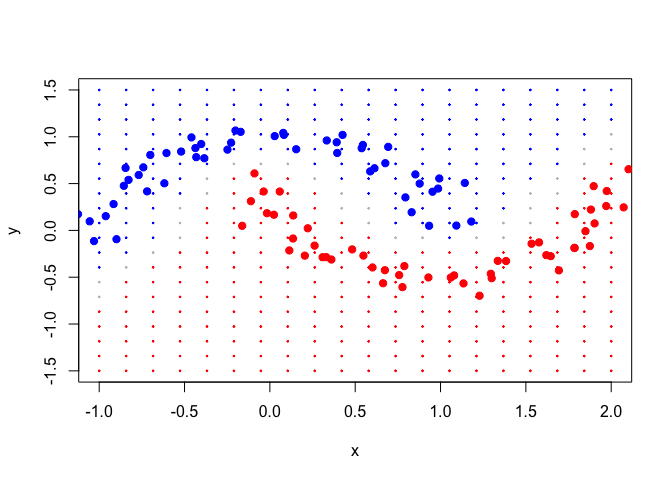
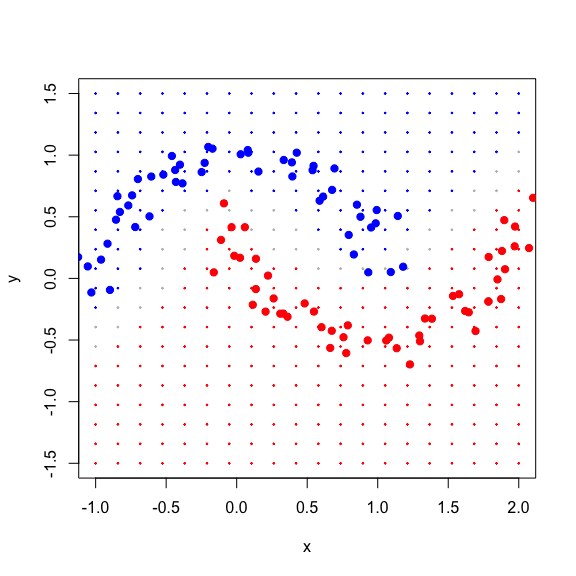
++

Changed region(s): [[0.0625, 0.125, 0.9688, 0.9062], [0.5, 0.9375, 0.5312, 0.9688], [0.0, 0.4688, 0.0312, 0.5]]

diff --git a/README.html b/README.html
@@ -1,0 +1,330 @@
+<!DOCTYPE html>
+<html xmlns="http://www.w3.org/1999/xhtml" lang="en" xml:lang="en"><head>
+
+<meta charset="utf-8">
+<meta name="generator" content="quarto-1.2.269">
+
+<meta name="viewport" content="width=device-width, initial-scale=1.0, user-scalable=yes">
+
+
+<title>readme</title>
+<style>
+code{white-space: pre-wrap;}
+span.smallcaps{font-variant: small-caps;}
+div.columns{display: flex; gap: min(4vw, 1.5em);}
+div.column{flex: auto; overflow-x: auto;}
+div.hanging-indent{margin-left: 1.5em; text-indent: -1.5em;}
+ul.task-list{list-style: none;}
+ul.task-list li input[type="checkbox"] {
+  width: 0.8em;
+  margin: 0 0.8em 0.2em -1.6em;
+  vertical-align: middle;
+}
+pre > code.sourceCode { white-space: pre; position: relative; }
+pre > code.sourceCode > span { display: inline-block; line-height: 1.25; }
+pre > code.sourceCode > span:empty { height: 1.2em; }
+.sourceCode { overflow: visible; }
+code.sourceCode > span { color: inherit; text-decoration: inherit; }
+div.sourceCode { margin: 1em 0; }
+pre.sourceCode { margin: 0; }
+@media screen {
+div.sourceCode { overflow: auto; }
+}
+@media print {
+pre > code.sourceCode { white-space: pre-wrap; }
+pre > code.sourceCode > span { text-indent: -5em; padding-left: 5em; }
+}
+pre.numberSource code
+  { counter-reset: source-line 0; }
+pre.numberSource code > span
+  { position: relative; left: -4em; counter-increment: source-line; }
+pre.numberSource code > span > a:first-child::before
+  { content: counter(source-line);
+    position: relative; left: -1em; text-align: right; vertical-align: baseline;
+    border: none; display: inline-block;
+    -webkit-touch-callout: none; -webkit-user-select: none;
+    -khtml-user-select: none; -moz-user-select: none;
+    -ms-user-select: none; user-select: none;
+    padding: 0 4px; width: 4em;
+    color: #aaaaaa;
+  }
+pre.numberSource { margin-left: 3em; border-left: 1px solid #aaaaaa;  padding-left: 4px; }
+div.sourceCode
+  {   }
+@media screen {
+pre > code.sourceCode > span > a:first-child::before { text-decoration: underline; }
+}
+code span.al { color: #ff0000; font-weight: bold; } /* Alert */
+code span.an { color: #60a0b0; font-weight: bold; font-style: italic; } /* Annotation */
+code span.at { color: #7d9029; } /* Attribute */
+code span.bn { color: #40a070; } /* BaseN */
+code span.bu { color: #008000; } /* BuiltIn */
+code span.cf { color: #007020; font-weight: bold; } /* ControlFlow */
+code span.ch { color: #4070a0; } /* Char */
+code span.cn { color: #880000; } /* Constant */
+code span.co { color: #60a0b0; font-style: italic; } /* Comment */
+code span.cv { color: #60a0b0; font-weight: bold; font-style: italic; } /* CommentVar */
+code span.do { color: #ba2121; font-style: italic; } /* Documentation */
+code span.dt { color: #902000; } /* DataType */
+code span.dv { color: #40a070; } /* DecVal */
+code span.er { color: #ff0000; font-weight: bold; } /* Error */
+code span.ex { } /* Extension */
+code span.fl { color: #40a070; } /* Float */
+code span.fu { color: #06287e; } /* Function */
+code span.im { color: #008000; font-weight: bold; } /* Import */
+code span.in { color: #60a0b0; font-weight: bold; font-style: italic; } /* Information */
+code span.kw { color: #007020; font-weight: bold; } /* Keyword */
+code span.op { color: #666666; } /* Operator */
+code span.ot { color: #007020; } /* Other */
+code span.pp { color: #bc7a00; } /* Preprocessor */
+code span.sc { color: #4070a0; } /* SpecialChar */
+code span.ss { color: #bb6688; } /* SpecialString */
+code span.st { color: #4070a0; } /* String */
+code span.va { color: #19177c; } /* Variable */
+code span.vs { color: #4070a0; } /* VerbatimString */
+code span.wa { color: #60a0b0; font-weight: bold; font-style: italic; } /* Warning */
+</style>
+
+
+<script src="README_files/libs/clipboard/clipboard.min.js"></script>
+<script src="README_files/libs/quarto-html/quarto.js"></script>
+<script src="README_files/libs/quarto-html/popper.min.js"></script>
+<script src="README_files/libs/quarto-html/tippy.umd.min.js"></script>
+<script src="README_files/libs/quarto-html/anchor.min.js"></script>
+<link href="README_files/libs/quarto-html/tippy.css" rel="stylesheet">
+<link href="README_files/libs/quarto-html/quarto-syntax-highlighting.css" rel="stylesheet" id="quarto-text-highlighting-styles">
+<script src="README_files/libs/bootstrap/bootstrap.min.js"></script>
+<link href="README_files/libs/bootstrap/bootstrap-icons.css" rel="stylesheet">
+<link href="README_files/libs/bootstrap/bootstrap.min.css" rel="stylesheet" id="quarto-bootstrap" data-mode="light">
+
+
+</head>
+
+<body class="fullcontent">
+
+<div id="quarto-content" class="page-columns page-rows-contents page-layout-article">
+
+<main class="content" id="quarto-document-content">
+
+
+
+<!-- README.md is generated from README.Rmd. Please edit that file -->
+<section id="micrograd" class="level1">
+<h1>micrograd</h1>
+<!-- badges: start -->
+<!-- badges: end -->
+<p>micrograd is small library for scalar values automatic differentiation in R. It’s a port of the <a href="https://github.com/karpathy/micrograd">micrograd</a> project by Andrej Karpathy with modifications to take advantage of R’s functional programming capabilities. Taking ideas from <a href="https://jax.readthedocs.io"><code>jax</code></a>. such as the usage of <a href="https://jax.readthedocs.io/en/latest/_autosummary/jax.value_and_grad.html"><code>value_and_grad</code></a>. It’s also heavily inspired by modifications from <a href="https://gist.github.com/cghawthorne/68af5fd4a9110076e5b23f056b9653dd">functional-micrograd</a>.</p>
+<p>micrograd is only useful for educational purposes. The code is meant to be readable and simple, not efficient. It’s not meant to be used in production code.</p>
+<section id="installation" class="level2">
+<h2 class="anchored" data-anchor-id="installation">Installation</h2>
+<p>You can install the development version of micrograd like so:</p>
+<div class="sourceCode" id="cb1"><pre class="sourceCode r code-with-copy"><code class="sourceCode r"><span id="cb1-1"><a href="#cb1-1" aria-hidden="true" tabindex="-1"></a>remotes<span class="sc">::</span><span class="fu">install_github</span>(<span class="st">"dfalbel/micrograd"</span>)</span></code><button title="Copy to Clipboard" class="code-copy-button"><i class="bi"></i></button></pre></div>
+</section>
+<section id="example" class="level2">
+<h2 class="anchored" data-anchor-id="example">Example</h2>
+<p>As an example usage of micrograd let’s train a simple multi layer perceptron on the moon dataset. You can see the data points below:</p>
+<div class="sourceCode" id="cb2"><pre class="sourceCode r code-with-copy"><code class="sourceCode r"><span id="cb2-1"><a href="#cb2-1" aria-hidden="true" tabindex="-1"></a><span class="fu">library</span>(micrograd)</span>
+<span id="cb2-2"><a href="#cb2-2" aria-hidden="true" tabindex="-1"></a><span class="fu">library</span>(purrr)</span>
+<span id="cb2-3"><a href="#cb2-3" aria-hidden="true" tabindex="-1"></a><span class="fu">library</span>(dotty) <span class="co"># for .[] syntax</span></span>
+<span id="cb2-4"><a href="#cb2-4" aria-hidden="true" tabindex="-1"></a></span>
+<span id="cb2-5"><a href="#cb2-5" aria-hidden="true" tabindex="-1"></a><span class="fu">set.seed</span>(<span class="dv">18</span>)</span>
+<span id="cb2-6"><a href="#cb2-6" aria-hidden="true" tabindex="-1"></a>.[X, y] <span class="ot">&lt;-</span> <span class="fu">moon</span>(<span class="at">n =</span> <span class="dv">100</span>, <span class="at">noise =</span> <span class="fl">0.1</span>)</span>
+<span id="cb2-7"><a href="#cb2-7" aria-hidden="true" tabindex="-1"></a><span class="fu">plot</span>(X, <span class="at">col =</span> <span class="fu">ifelse</span>(y <span class="sc">==</span> <span class="sc">-</span><span class="dv">1</span>, <span class="st">"blue"</span>, <span class="st">"red"</span>), <span class="at">pch =</span> <span class="dv">19</span>)</span></code><button title="Copy to Clipboard" class="code-copy-button"><i class="bi"></i></button></pre></div>
+<p><img src="man/figures/README-moon-dataset-1.png" width="100px" height="100px"></p>
+<p>This dataset is particularly challenging because the two classes are not linearly separable, so a linear regression model wouldn’t be able to achieve good results. Let’s train a simple multi layer perceptron to classify the data points.</p>
+<div class="sourceCode" id="cb3"><pre class="sourceCode r code-with-copy"><code class="sourceCode r"><span id="cb3-1"><a href="#cb3-1" aria-hidden="true" tabindex="-1"></a>.[params, model] <span class="ot">&lt;-</span> <span class="fu">mlp</span>(<span class="dv">2</span>, <span class="fu">c</span>(<span class="dv">16</span>, <span class="dv">16</span>, <span class="dv">1</span>))</span>
+<span id="cb3-2"><a href="#cb3-2" aria-hidden="true" tabindex="-1"></a></span>
+<span id="cb3-3"><a href="#cb3-3" aria-hidden="true" tabindex="-1"></a>loss <span class="ot">&lt;-</span> <span class="cf">function</span>(params) {</span>
+<span id="cb3-4"><a href="#cb3-4" aria-hidden="true" tabindex="-1"></a>  loss <span class="ot">&lt;-</span> <span class="fu">Value</span>(<span class="dv">0</span>)</span>
+<span id="cb3-5"><a href="#cb3-5" aria-hidden="true" tabindex="-1"></a>  <span class="cf">for</span> (i <span class="cf">in</span> <span class="fu">seq_len</span>(<span class="fu">nrow</span>(X))) {</span>
+<span id="cb3-6"><a href="#cb3-6" aria-hidden="true" tabindex="-1"></a>    xi <span class="ot">&lt;-</span> <span class="fu">lapply</span>(X[i,], Value)</span>
+<span id="cb3-7"><a href="#cb3-7" aria-hidden="true" tabindex="-1"></a>    yi <span class="ot">&lt;-</span> <span class="fu">Value</span>(y[i])</span>
+<span id="cb3-8"><a href="#cb3-8" aria-hidden="true" tabindex="-1"></a></span>
+<span id="cb3-9"><a href="#cb3-9" aria-hidden="true" tabindex="-1"></a>    yhati <span class="ot">&lt;-</span> <span class="fu">model</span>(xi, params)[[<span class="dv">1</span>]]</span>
+<span id="cb3-10"><a href="#cb3-10" aria-hidden="true" tabindex="-1"></a></span>
+<span id="cb3-11"><a href="#cb3-11" aria-hidden="true" tabindex="-1"></a>    <span class="co"># svm "max-margin" loss</span></span>
+<span id="cb3-12"><a href="#cb3-12" aria-hidden="true" tabindex="-1"></a>    loss <span class="ot">&lt;-</span> loss <span class="sc">+</span> <span class="fu">relu</span>(<span class="fu">Value</span>(<span class="dv">1</span>) <span class="sc">+</span> (<span class="fu">Value</span>(<span class="sc">-</span><span class="dv">1</span>) <span class="sc">*</span> yi <span class="sc">*</span> yhati))</span>
+<span id="cb3-13"><a href="#cb3-13" aria-hidden="true" tabindex="-1"></a>  }</span>
+<span id="cb3-14"><a href="#cb3-14" aria-hidden="true" tabindex="-1"></a></span>
+<span id="cb3-15"><a href="#cb3-15" aria-hidden="true" tabindex="-1"></a>  loss <span class="ot">&lt;-</span> loss <span class="sc">*</span> <span class="fu">Value</span>(<span class="dv">1</span><span class="sc">/</span><span class="dv">100</span>)</span>
+<span id="cb3-16"><a href="#cb3-16" aria-hidden="true" tabindex="-1"></a></span>
+<span id="cb3-17"><a href="#cb3-17" aria-hidden="true" tabindex="-1"></a>  alpha <span class="ot">&lt;-</span> <span class="fu">Value</span>(<span class="fl">1e-4</span>)</span>
+<span id="cb3-18"><a href="#cb3-18" aria-hidden="true" tabindex="-1"></a>  loss <span class="ot">&lt;-</span> loss <span class="sc">+</span> alpha <span class="sc">*</span> <span class="fu">reduce</span>(<span class="fu">map</span>(<span class="fu">unlist</span>(params), \(p) p<span class="sc">^</span><span class="dv">2</span>), <span class="st">`</span><span class="at">+</span><span class="st">`</span>)</span>
+<span id="cb3-19"><a href="#cb3-19" aria-hidden="true" tabindex="-1"></a>  loss</span>
+<span id="cb3-20"><a href="#cb3-20" aria-hidden="true" tabindex="-1"></a>}</span>
+<span id="cb3-21"><a href="#cb3-21" aria-hidden="true" tabindex="-1"></a></span>
+<span id="cb3-22"><a href="#cb3-22" aria-hidden="true" tabindex="-1"></a>apply_grads <span class="ot">&lt;-</span> <span class="cf">function</span>(params, grads, <span class="at">lr =</span> <span class="fl">0.01</span>) {</span>
+<span id="cb3-23"><a href="#cb3-23" aria-hidden="true" tabindex="-1"></a>  purrr<span class="sc">::</span><span class="fu">map2</span>(params, grads, <span class="cf">function</span>(p, g) {</span>
+<span id="cb3-24"><a href="#cb3-24" aria-hidden="true" tabindex="-1"></a>    <span class="cf">if</span> (<span class="sc">!</span><span class="fu">is.list</span>(p) <span class="sc">&amp;&amp;</span> <span class="sc">!</span><span class="fu">is.list</span>(g)) {</span>
+<span id="cb3-25"><a href="#cb3-25" aria-hidden="true" tabindex="-1"></a>      <span class="fu">Value</span>(p<span class="sc">@</span>data <span class="sc">-</span> lr <span class="sc">*</span> g)</span>
+<span id="cb3-26"><a href="#cb3-26" aria-hidden="true" tabindex="-1"></a>    } <span class="cf">else</span> {</span>
+<span id="cb3-27"><a href="#cb3-27" aria-hidden="true" tabindex="-1"></a>      <span class="fu">apply_grads</span>(p, g, lr)</span>
+<span id="cb3-28"><a href="#cb3-28" aria-hidden="true" tabindex="-1"></a>    }</span>
+<span id="cb3-29"><a href="#cb3-29" aria-hidden="true" tabindex="-1"></a>  })</span>
+<span id="cb3-30"><a href="#cb3-30" aria-hidden="true" tabindex="-1"></a>}</span>
+<span id="cb3-31"><a href="#cb3-31" aria-hidden="true" tabindex="-1"></a></span>
+<span id="cb3-32"><a href="#cb3-32" aria-hidden="true" tabindex="-1"></a>n_iter <span class="ot">&lt;-</span> <span class="dv">50</span></span>
+<span id="cb3-33"><a href="#cb3-33" aria-hidden="true" tabindex="-1"></a><span class="cf">for</span> (iter <span class="cf">in</span> <span class="fu">seq_len</span>(n_iter)) {</span>
+<span id="cb3-34"><a href="#cb3-34" aria-hidden="true" tabindex="-1"></a>  .[value, .[grads]] <span class="ot">&lt;-</span> <span class="fu">value_and_grad</span>(loss)(params)</span>
+<span id="cb3-35"><a href="#cb3-35" aria-hidden="true" tabindex="-1"></a></span>
+<span id="cb3-36"><a href="#cb3-36" aria-hidden="true" tabindex="-1"></a>  lr <span class="ot">&lt;-</span> <span class="fl">1.0</span> <span class="sc">-</span> <span class="fl">0.9</span><span class="sc">*</span>iter<span class="sc">/</span>n_iter</span>
+<span id="cb3-37"><a href="#cb3-37" aria-hidden="true" tabindex="-1"></a></span>
+<span id="cb3-38"><a href="#cb3-38" aria-hidden="true" tabindex="-1"></a>  params <span class="ot">&lt;-</span> <span class="fu">apply_grads</span>(params, grads, lr)</span>
+<span id="cb3-39"><a href="#cb3-39" aria-hidden="true" tabindex="-1"></a>  <span class="cf">if</span> (iter <span class="sc">%%</span> <span class="dv">10</span> <span class="sc">==</span> <span class="dv">0</span>) <span class="fu">cat</span>(<span class="st">"iter:"</span>, iter, <span class="st">"loss:"</span>, value, <span class="st">"</span><span class="sc">\n</span><span class="st">"</span>)</span>
+<span id="cb3-40"><a href="#cb3-40" aria-hidden="true" tabindex="-1"></a>}</span></code><button title="Copy to Clipboard" class="code-copy-button"><i class="bi"></i></button></pre></div>
+<p>We can then visualize the decision boundary of the model using something like:</p>
+<div class="sourceCode" id="cb4"><pre class="sourceCode r code-with-copy"><code class="sourceCode r"><span id="cb4-1"><a href="#cb4-1" aria-hidden="true" tabindex="-1"></a>grid <span class="ot">&lt;-</span> <span class="fu">expand.grid</span>(<span class="at">x =</span> <span class="fu">seq</span>(<span class="sc">-</span><span class="dv">1</span>, <span class="dv">2</span>, <span class="at">length.out=</span><span class="dv">20</span>), <span class="at">y =</span> <span class="fu">seq</span>(<span class="sc">-</span><span class="fl">1.5</span>, <span class="fl">1.5</span>, <span class="at">length.out=</span><span class="dv">20</span>))</span>
+<span id="cb4-2"><a href="#cb4-2" aria-hidden="true" tabindex="-1"></a>scores <span class="ot">&lt;-</span> grid <span class="sc">|&gt;</span> </span>
+<span id="cb4-3"><a href="#cb4-3" aria-hidden="true" tabindex="-1"></a>  <span class="fu">pmap_dbl</span>(\(x, y) <span class="fu">model</span>(<span class="fu">list</span>(<span class="fu">Value</span>(x), <span class="fu">Value</span>(y)), params)[[<span class="dv">1</span>]]<span class="sc">@</span>data)</span>
+<span id="cb4-4"><a href="#cb4-4" aria-hidden="true" tabindex="-1"></a></span>
+<span id="cb4-5"><a href="#cb4-5" aria-hidden="true" tabindex="-1"></a>colors <span class="ot">&lt;-</span> dplyr<span class="sc">::</span><span class="fu">case_when</span>(</span>
+<span id="cb4-6"><a href="#cb4-6" aria-hidden="true" tabindex="-1"></a>  scores <span class="sc">&lt;</span> <span class="sc">-</span><span class="fl">0.5</span> <span class="sc">~</span> <span class="st">"blue"</span>, </span>
+<span id="cb4-7"><a href="#cb4-7" aria-hidden="true" tabindex="-1"></a>  scores <span class="sc">&lt;</span> <span class="fl">0.5</span> <span class="sc">~</span> <span class="st">"gray"</span>, </span>
+<span id="cb4-8"><a href="#cb4-8" aria-hidden="true" tabindex="-1"></a>  scores <span class="sc">&gt;</span> <span class="fl">0.5</span> <span class="sc">~</span> <span class="st">"red"</span></span>
+<span id="cb4-9"><a href="#cb4-9" aria-hidden="true" tabindex="-1"></a>)</span>
+<span id="cb4-10"><a href="#cb4-10" aria-hidden="true" tabindex="-1"></a></span>
+<span id="cb4-11"><a href="#cb4-11" aria-hidden="true" tabindex="-1"></a><span class="fu">plot</span>(grid, <span class="at">col =</span> colors, <span class="at">pch =</span> <span class="dv">19</span>, <span class="at">cex =</span> <span class="fl">0.2</span>)</span>
+<span id="cb4-12"><a href="#cb4-12" aria-hidden="true" tabindex="-1"></a><span class="fu">points</span>(X, <span class="at">col =</span> <span class="fu">ifelse</span>(y <span class="sc">==</span> <span class="sc">-</span><span class="dv">1</span>, <span class="st">"blue"</span>, <span class="st">"red"</span>), <span class="at">pch =</span> <span class="dv">19</span>)</span></code><button title="Copy to Clipboard" class="code-copy-button"><i class="bi"></i></button></pre></div>
+</section>
+</section>
+
+</main>
+<!-- /main column -->
+<script id="quarto-html-after-body" type="application/javascript">
+window.document.addEventListener("DOMContentLoaded", function (event) {
+  const toggleBodyColorMode = (bsSheetEl) => {
+    const mode = bsSheetEl.getAttribute("data-mode");
+    const bodyEl = window.document.querySelector("body");
+    if (mode === "dark") {
+      bodyEl.classList.add("quarto-dark");
+      bodyEl.classList.remove("quarto-light");
+    } else {
+      bodyEl.classList.add("quarto-light");
+      bodyEl.classList.remove("quarto-dark");
+    }
+  }
+  const toggleBodyColorPrimary = () => {
+    const bsSheetEl = window.document.querySelector("link#quarto-bootstrap");
+    if (bsSheetEl) {
+      toggleBodyColorMode(bsSheetEl);
+    }
+  }
+  toggleBodyColorPrimary();  
+  const icon = "";
+  const anchorJS = new window.AnchorJS();
+  anchorJS.options = {
+    placement: 'right',
+    icon: icon
+  };
+  anchorJS.add('.anchored');
+  const clipboard = new window.ClipboardJS('.code-copy-button', {
+    target: function(trigger) {
+      return trigger.previousElementSibling;
+    }
+  });
+  clipboard.on('success', function(e) {
+    // button target
+    const button = e.trigger;
+    // don't keep focus
+    button.blur();
+    // flash "checked"
+    button.classList.add('code-copy-button-checked');
+    var currentTitle = button.getAttribute("title");
+    button.setAttribute("title", "Copied!");
+    let tooltip;
+    if (window.bootstrap) {
+      button.setAttribute("data-bs-toggle", "tooltip");
+      button.setAttribute("data-bs-placement", "left");
+      button.setAttribute("data-bs-title", "Copied!");
+      tooltip = new bootstrap.Tooltip(button, 
+        { trigger: "manual", 
+          customClass: "code-copy-button-tooltip",
+          offset: [0, -8]});
+      tooltip.show();    
+    }
+    setTimeout(function() {
+      if (tooltip) {
+        tooltip.hide();
+        button.removeAttribute("data-bs-title");
+        button.removeAttribute("data-bs-toggle");
+        button.removeAttribute("data-bs-placement");
+      }
+      button.setAttribute("title", currentTitle);
+      button.classList.remove('code-copy-button-checked');
+    }, 1000);
+    // clear code selection
+    e.clearSelection();
+  });
+  function tippyHover(el, contentFn) {
+    const config = {
+      allowHTML: true,
+      content: contentFn,
+      maxWidth: 500,
+      delay: 100,
+      arrow: false,
+      appendTo: function(el) {
+          return el.parentElement;
+      },
+      interactive: true,
+      interactiveBorder: 10,
+      theme: 'quarto',
+      placement: 'bottom-start'
+    };
+    window.tippy(el, config); 
+  }
+  const noterefs = window.document.querySelectorAll('a[role="doc-noteref"]');
+  for (var i=0; i<noterefs.length; i++) {
+    const ref = noterefs[i];
+    tippyHover(ref, function() {
+      // use id or data attribute instead here
+      let href = ref.getAttribute('data-footnote-href') || ref.getAttribute('href');
+      try { href = new URL(href).hash; } catch {}
+      const id = href.replace(/^#\/?/, "");
+      const note = window.document.getElementById(id);
+      return note.innerHTML;
+    });
+  }
+  const findCites = (el) => {
+    const parentEl = el.parentElement;
+    if (parentEl) {
+      const cites = parentEl.dataset.cites;
+      if (cites) {
+        return {
+          el,
+          cites: cites.split(' ')
+        };
+      } else {
+        return findCites(el.parentElement)
+      }
+    } else {
+      return undefined;
+    }
+  };
+  var bibliorefs = window.document.querySelectorAll('a[role="doc-biblioref"]');
+  for (var i=0; i<bibliorefs.length; i++) {
+    const ref = bibliorefs[i];
+    const citeInfo = findCites(ref);
+    if (citeInfo) {
+      tippyHover(citeInfo.el, function() {
+        var popup = window.document.createElement('div');
+        citeInfo.cites.forEach(function(cite) {
+          var citeDiv = window.document.createElement('div');
+          citeDiv.classList.add('hanging-indent');
+          citeDiv.classList.add('csl-entry');
+          var biblioDiv = window.document.getElementById('ref-' + cite);
+          if (biblioDiv) {
+            citeDiv.innerHTML = biblioDiv.innerHTML;
+          }
+          popup.appendChild(citeDiv);
+        });
+        return popup.innerHTML;
+      });
+    }
+  }
+});
+</script>
+</div> <!-- /content -->
+
+
+
+</body></html>

diff --git a/README.md b/README.md
@@ -43,7 +43,7 @@ set.seed(18)
 plot(X, col = ifelse(y == -1, "blue", "red"), pch = 19)
 ```
 
-<img src="man/figures/README-moon-dataset-1.png" width="100%" />
+<img src="man/figures/README-moon-dataset-1.png" width="400px" height="400px" />
 
 This dataset is particularly challenging because the two classes are not
 linearly separable, so a linear regression model wouldn’t be able to
@@ -82,24 +82,20 @@ apply_grads <- function(params, grads, lr = 0.01) {
   })
 }
 
-for (iter in seq_len(100)) {
+n_iter <- 50
+for (iter in seq_len(n_iter)) {
   .[value, .[grads]] <- value_and_grad(loss)(params)
 
-  lr <- 1.0 - 0.9*iter/100
+  lr <- 1.0 - 0.9*iter/n_iter
 
   params <- apply_grads(params, grads, lr)
   if (iter %% 10 == 0) cat("iter:", iter, "loss:", value, "\n")
 }
-#> iter: 10 loss: 0.2487288 
-#> iter: 20 loss: 0.2097711 
-#> iter: 30 loss: 0.1207904 
-#> iter: 40 loss: 0.0565109 
-#> iter: 50 loss: 0.01836962 
-#> iter: 60 loss: 0.01586246 
-#> iter: 70 loss: 0.01622955 
-#> iter: 80 loss: 0.01577205 
-#> iter: 90 loss: 0.01410794 
-#> iter: 100 loss: 0.01350883
+#> iter: 10 loss: 0.2326806 
+#> iter: 20 loss: 0.1969999 
+#> iter: 30 loss: 0.1658738 
+#> iter: 40 loss: 0.1034638 
+#> iter: 50 loss: 0.07096635
 ```
 
 We can then visualize the decision boundary of the model using something
@@ -108,7 +104,7 @@ like:
 ``` r
 grid <- expand.grid(x = seq(-1, 2, length.out=20), y = seq(-1.5, 1.5, length.out=20))
 scores <- grid |> 
-  pmap_dbl(\(x, y) model(list(Value(x), Value(y)), params)[[1]]@data, .progress = TRUE)
+  pmap_dbl(\(x, y) model(list(Value(x), Value(y)), params)[[1]]@data)
 
 colors <- dplyr::case_when(
   scores < -0.5 ~ "blue", 
@@ -120,4 +116,4 @@ plot(grid, col = colors, pch = 19, cex = 0.2)
 points(X, col = ifelse(y == -1, "blue", "red"), pch = 19)
 ```
 
-<img src="man/figures/README-decision-boundary-1.png" width="100%" />
+<img src="man/figures/README-decision-boundary-1.png" width="400px" height="400px" />
